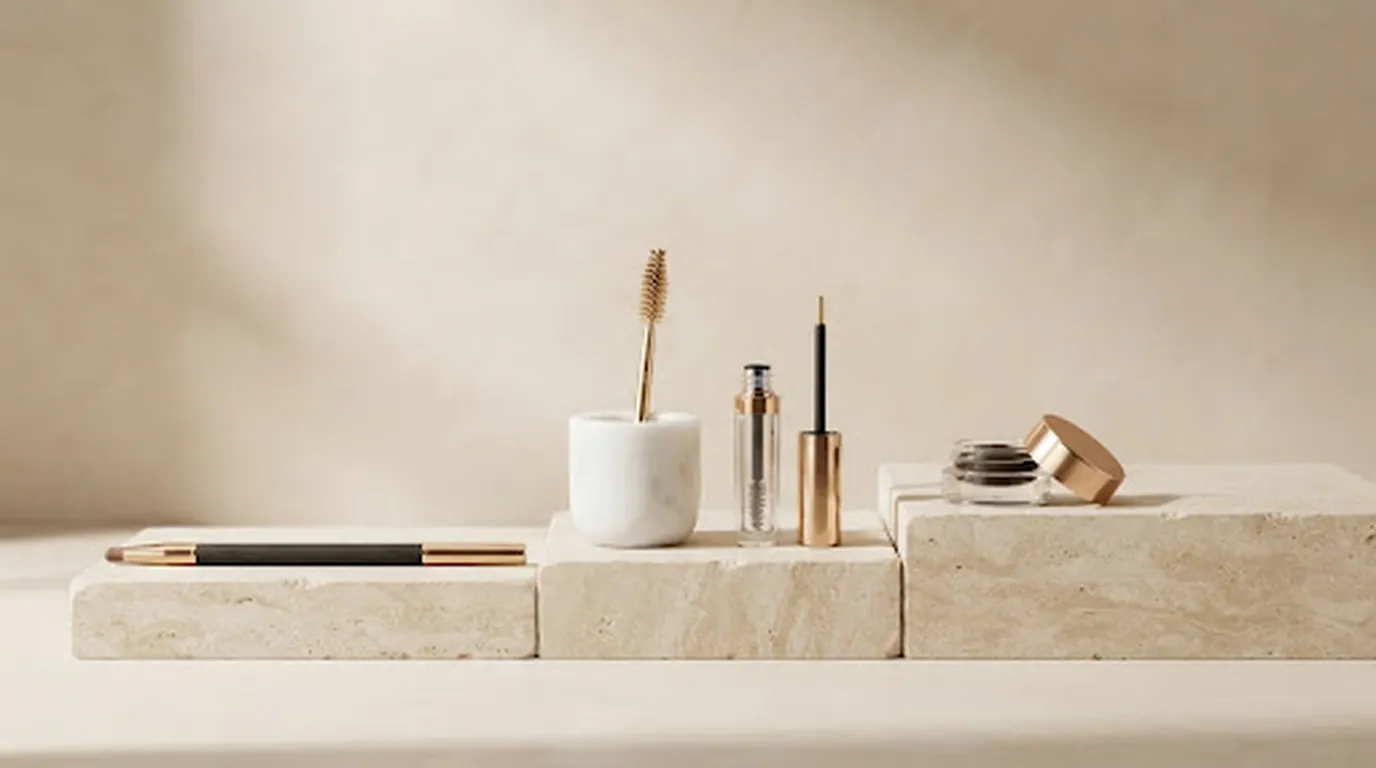
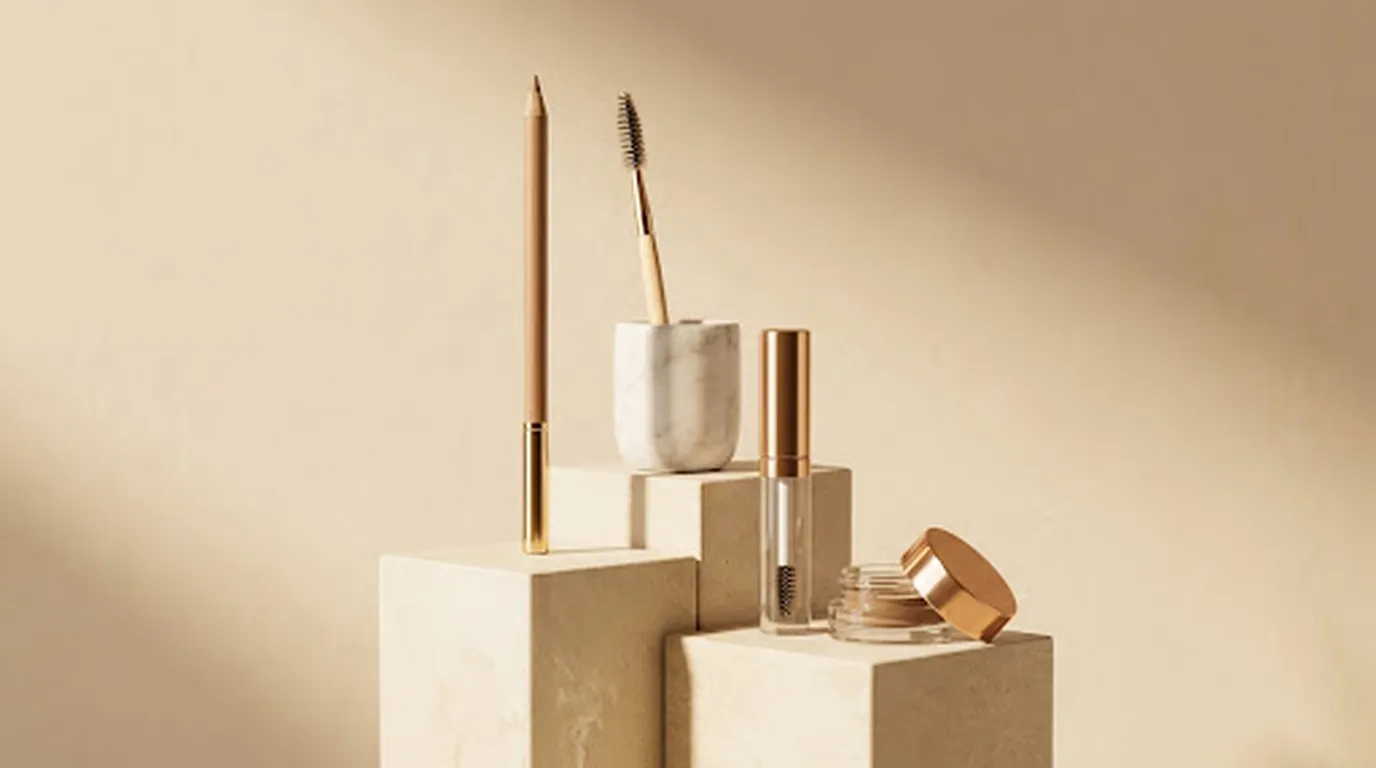
refactor(beauty): finish the restage — all 45 tiles on varied set-ups
Completes the electrical department and the last hair tile, so every one of the
45 groups is now shot on a set-up assigned to keep neighbours distinct.

Two tiles were caught by the crop check and reshot. brow-makeup lost its pencil
off the left edge and half the pomade pot off the right; oral-care lost most of
the floss case. Both are the same failure as the hair dryer earlier — objects
drifting to the frame edges, invisible at full 16:9 and obvious once the grid
takes 13% off each side. Reshot with an explicit instruction that every object
be complete with a clear margin on both sides.

All 45 were then verified through the 4:3 crop as a single sheet. Nothing is
clipped and no department has two neighbours sharing a set-up.

  assets/category-source/TILE-PROMPTS.md
    Documents the split the restage was built on: what stays fixed because it
    makes the set a family (marble, ivory cloth, champagne light from the left,
    the palette) versus what varies because it makes tiles tellable apart
    (surface, height rhythm, camera). Records all eight set-ups verbatim and
    which group uses which, so a future single-tile regeneration lands back in
    the same set instead of quietly recreating the sameness problem.

Claude-Session: https://claude.ai/code/session_01NXYraC7kgt5k312aPZCPpN

diff --git a/assets/category-source/TILE-PROMPTS.md b/assets/category-source/TILE-PROMPTS.md
@@ -17,11 +17,21 @@ node scripts/build_category_tiles.mjs --manifest-only
 ## Why the prompts are written down
 
 The 45 tiles sit next to each other in a grid, so they only work if they read
-as **one campaign**: same marble ledge, same silk backdrop, same champagne
-light from the left, same palette. That consistency comes from reusing one
-fixed shell and changing only the SUBJECT line. Regenerating a single tile
-months from now has to produce something that still sits in the same set —
-hence the shell below is verbatim, not a summary.
+as **one campaign**. Regenerating a single tile months from now has to produce
+something that still belongs in the set, hence the shell below is verbatim,
+not a summary.
+
+But consistency is not sameness, and the first pass got that wrong. Every tile
+was built from one fixed shell — a straight-on row of objects on a marble
+ledge with silk behind — and side by side in the grid they read as a single
+photograph with the products swapped out. At tile size the products alone do
+not carry enough difference.
+
+The fix splits the brief in two. **Fixed, because it is what makes the set a
+family:** cream marble, ivory cloth, warm champagne light raking in from the
+left, the ivory/gold palette, and the content rules below. **Varied, because it
+is what makes tiles distinguishable:** the surface, the height rhythm of the
+group, and the camera position. Eight set-ups cover that second half.
 
 ## Hard content rules (from the brand law)
 
@@ -65,7 +75,7 @@ decides it, in order:
 
 ## The shell
 
-Everything below is sent verbatim, with `{SUBJECT}` replaced:
+Everything below is sent verbatim, with `{SUBJECT}` and `{SET}` replaced:
 
 > A photorealistic luxury product still-life photograph. Absolutely NO text, NO
 > words, NO letters, NO numbers, NO logos, NO labels, NO printed or embossed or
@@ -74,24 +84,82 @@ Everything below is sent verbatim, with `{SUBJECT}` replaced:
 > clean surfaces only. Full-bleed photograph, no borders, no frames, no graphic
 > overlays.
 >
-> SUBJECT: {SUBJECT}
+> SUBJECT: {SUBJECT}. The group is arranged in the CENTRE of the frame and fills
+> most of the frame height; nothing is placed near the left or right edges.
 >
-> SETTING AND LIGHT: the items stand in a row on a pale cream marble ledge that
-> runs across the lower third of the frame. Behind them, soft ivory silk fabric
-> is draped in gentle folds, slightly out of focus. Warm champagne studio light
-> rakes in from the left, casting soft shadows to the right across the marble.
-> The palette is strictly ivory, cream, warm beige, champagne gold and polished
-> copper — no cool blues, no colored gels, no strong saturation.
+> {SET}
 >
-> CAMERA: shot straight on at product height with an 85mm lens, shallow depth of
-> field so the silk background is softly blurred while the products stay crisp.
-> Editorial luxury beauty campaign photography, high-end retail merchandising
-> quality, calm and expensive. Landscape 16:9 composition, the row centred with
-> generous empty space above.
+> LIGHT AND PALETTE: warm champagne studio light rakes in from the left, casting
+> soft shadows to the right. The palette is strictly ivory, cream, warm beige,
+> champagne gold and polished copper — no cool blues, no colored gels, no strong
+> saturation.
+>
+> STYLE: editorial luxury beauty campaign photography, high-end retail
+> merchandising quality, calm and expensive. Landscape 16:9 composition.
+
+### The eight set-ups — `{SET}`
+
+**ledge** — the objects stand in a straight row on a pale cream marble ledge
+running across the lower third of the frame, ivory silk draped in soft folds
+behind them, slightly out of focus. CAMERA: straight on at product height,
+85mm, shallow depth of field.
+
+**plinths** — the objects are staggered across three cream limestone plinths of
+clearly different heights, so the group makes a stepped silhouette rather than
+a flat line. A plain warm plaster wall behind, no fabric. CAMERA: straight on
+at mid-product height, 85mm, shallow depth of field.
+
+**cluster** — the objects are grouped into a tight overlapping triangle on a
+cream marble surface — some in front, some behind — rather than lined up.
+Softly gathered ivory linen behind. CAMERA: raised slightly above the objects
+and turned about 30 degrees to one side, a three-quarter view, 50mm.
+
+**tray** — the objects rest together on a shallow antique-brass tray on a cream
+marble counter, with a folded ivory linen cloth beside it. CAMERA: looking down
+at roughly 45 degrees onto the tray, 50mm.
+
+**silk** — no hard ledge; the objects lie nestled in the deep folds of a heavy
+ivory silk drape that fills the frame, some resting on their sides, the fabric
+rising behind them. CAMERA: low, almost level with the fabric, 85mm, very
+shallow depth of field.
+
+**niche** — the objects stand inside a shallow arched niche cut into a warm
+cream plaster wall, the curve of the arch framing them and the recess falling
+into soft shadow at its edges. CAMERA: straight on, centred on the arch, 85mm.
+
+**macro** — only the two or three most characteristic objects, very large in
+frame and slightly overlapping, cropped close so they run past the top of the
+picture. Cream marble beneath, warm blurred ivory behind. CAMERA: close, 100mm
+macro, very shallow depth of field with the nearest edge crisp.
+
+**fluted** — the objects stand on a fluted cream stone column top, with a warm
+champagne glow behind them throwing a soft halo and a gentle rim light down
+their edges. CAMERA: straight on, slightly below product height so the objects
+rise against the glow, 85mm.
+
+### Which set-up each group uses
+
+Assigned so **no two tiles next to each other inside a department share a
+set-up** — the grid only ever shows one department at a time, so that is where
+sameness actually shows. Change one and check its neighbours.
+
+| Department | Set-ups, in the department's sort order |
+| --- | --- |
+| perfume | cologne `ledge` · men `plinths` · women `niche` · unisex `macro` · kids `silk` · air-freshener `cluster` · gift-set `tray` · body-mist `fluted` · spray `plinths` · body-splash `silk` · fragrances `cluster` |
+| personal-care | face-care `ledge` · body-care `cluster` · oral-care `plinths` · shaving `tray` · hygiene-sets `silk` · mens-care `niche` · baby-care `cluster` · skin-hair-supplement `macro` · intimate `fluted` |
+| makeup | face `tray` · eye `macro` · brow `plinths` · lip `cluster` · nail `silk` · accessories `ledge` · sets `niche` |
+| hair | care `plinths` · styling `fluted` · color `tray` |
+| electrical | shaving `plinths` · hair-styling `niche` · skincare `macro` · nail `tray` · oral `fluted` · health `cluster` |
+| fashion | womens `tray` · mens `cluster` |
+| supplements | vitamins `plinths` · fitness `tray` · sports `ledge` · womens `niche` · kids `fluted` · mens `macro` · skin-hair `tray` |
+
+`perfume-cologne`, `face-care` and `makeup-accessories` keep `ledge` as the
+family's anchors and are the three tiles never regenerated.
 
 ## SUBJECT per group
 
-Status: ✅ = tile committed · ⬜ = still to generate.
+All 45 tiles are committed. The subject line is what changes per group; the
+set-up comes from the table above.
 
 ### perfume
 
@@ -102,62 +170,62 @@ Status: ✅ = tile committed · ⬜ = still to generate.
 - ✅ `perfume-kids` — four small unbranded children's fragrance bottles in a row: a small squat rounded bottle with a domed cream cap, a tiny teardrop bottle in pale peach glass, a small cylindrical spray with a soft gold collar, and a little rounded flask with a smooth ivory stopper. Delicate and playful in scale but elegant and grown-up in finish — no cartoons, no characters, no decoration
 - ✅ `air-freshener` — four unbranded home fragrance vessels in a row: a ribbed clear glass reed diffuser with a bundle of natural rattan reeds fanning out, a tall cylindrical room spray with a brushed gold collar, a squat frosted diffuser bottle with a wooden neck, and a smooth ivory ceramic vessel
 - ✅ `perfume-gift-set` — an unbranded fragrance gift presentation grouped tightly together in the CENTRE of the frame, filling most of the frame height: a rigid ivory gift box standing upright with its lid resting ajar against it and pale silk lining visible inside, a large faceted crystal flacon with a polished gold cap standing immediately beside the box, a smaller matching travel spray in front, and a champagne satin ribbon curling across the marble between them. The objects are large in frame and touch each other; nothing is placed near the left or right edges
-- ⬜ `body-mist` — four tall slim unbranded body-mist bottles in a row: larger volume spray bottles in frosted pale-cream, pale peach and clear glass with fine-mist caps in matte ivory and soft gold, one with a slender pump collar
-- ⬜ `perfume-spray` — four unbranded perfume atomisers in a row: a small purse atomiser in polished gold, a refillable travel spray in brushed champagne metal, a tall clear glass pump spray with a gold collar, and a vintage-style bulb atomiser with a silk tassel and a soft ivory bulb
-- ⬜ `body-splash` — four large unbranded body-splash bottles in a row: wide cylindrical clear glass bottles with broad screw caps in ivory and brushed gold, one with pale golden liquid inside, one frosted, generous casual proportions rather than fine-fragrance proportions
-- ⬜ `fragrances` — an editorial mixed unbranded fragrance grouping: a faceted crystal flacon with a gold cap, a ribbed glass reed diffuser with rattan reeds, a slim rollerball vial with a gold cap lying on its side, and a small round solid-perfume compact in polished champagne metal, open to show the cream inside
+- ✅ `body-mist` — four tall slim unbranded body-mist bottles in a row: larger volume spray bottles in frosted pale-cream, pale peach and clear glass with fine-mist caps in matte ivory and soft gold, one with a slender pump collar
+- ✅ `perfume-spray` — four unbranded perfume atomisers in a row: a small purse atomiser in polished gold, a refillable travel spray in brushed champagne metal, a tall clear glass pump spray with a gold collar, and a vintage-style bulb atomiser with a silk tassel and a soft ivory bulb
+- ✅ `body-splash` — four large unbranded body-splash bottles in a row: wide cylindrical clear glass bottles with broad screw caps in ivory and brushed gold, one with pale golden liquid inside, one frosted, generous casual proportions rather than fine-fragrance proportions
+- ✅ `fragrances` — an editorial mixed unbranded fragrance grouping: a faceted crystal flacon with a gold cap, a ribbed glass reed diffuser with rattan reeds, a slim rollerball vial with a gold cap lying on its side, and a small round solid-perfume compact in polished champagne metal, open to show the cream inside
 
 ### personal-care
 
 - ✅ `face-care` — four unbranded facial skincare vessels in a row: a faceted clear glass serum bottle with a gold dropper cap, a wide low cream jar with a stepped polished copper lid, a tall frosted pump bottle with a ribbed gold collar, and a rounded ivory lotion bottle with an angled cap and a thin gold seam
 - ✅ `body-care` — five unbranded body-care items in a row: a tall ribbed glass pump bottle with pale golden liquid and a gold pump, a wide cream jar with a polished copper lid, a large blank body-lotion tube standing on its cap, a frosted cylindrical bottle with a copper cap, and a rolled cream cotton towel lying on its side
-- ⬜ `oral-care` — four unbranded oral-care items in a row: a smooth blank white toothpaste tube standing on its cap, a slim ivory toothbrush upright in a tall marble holder, a clear glass mouthwash bottle with pale amber liquid and a champagne-gold cap, and a small round polished gold floss case
-- ⬜ `shaving` — four unbranded wet-shaving items in a row: a heavy ivory ceramic bowl holding a whipped shaving cream puck, a badger-hair shaving brush with a cream resin handle, a chrome and gold double-edge safety razor standing upright on a small stand, and a squat clear glass aftershave bottle with a brushed gold cap
-- ⬜ `hygiene-sets` — an unbranded personal-hygiene gift set: a stacked pair of rigid ivory boxes with the top lid ajar, a cream soap bar resting on a small marble dish, a tall pump bottle in frosted glass with a gold pump, a small blank tube, and a rolled cream cotton towel
-- ⬜ `mens-care` — four unbranded men's grooming products in a row: a matte charcoal cylindrical pump bottle with a bronze collar, a smooth deodorant stick in brushed bronze, a blank matte tube standing on its cap, and a squat dark glass jar with a heavy bronze lid. Masculine cylindrical forms, warm bronze and deep taupe against the cream marble
-- ⬜ `baby-care` — four unbranded baby-care products in a row: a soft rounded pump bottle in pale cream, a small wide tub with a smooth ivory lid, a blank soft tube standing on its cap, and a rounded powder bottle with a domed cap. Very pale cream and soft blush, rounded gentle shapes, no characters and no decoration
-- ⬜ `skin-hair-supplement` — four unbranded skin-and-hair supplement vessels in a row: a tall amber glass bottle with a polished gold cap, a smooth ivory capsule jar with a gold lid, a small clear dropper bottle with a champagne pipette top, and a shallow marble dish holding a few smooth golden softgel capsules
-- ⬜ `intimate` — four unbranded discreet personal-care products in a row: a slim frosted pump bottle with a soft ivory pump, a small blank tube standing on its cap, a low round jar with a smooth champagne lid, and a slender cylindrical bottle in pale blush glass. Quiet, clinical-luxury, entirely neutral and unsuggestive
+- ✅ `oral-care` — four unbranded oral-care items in a row: a smooth blank white toothpaste tube standing on its cap, a slim ivory toothbrush upright in a tall marble holder, a clear glass mouthwash bottle with pale amber liquid and a champagne-gold cap, and a small round polished gold floss case
+- ✅ `shaving` — four unbranded wet-shaving items in a row: a heavy ivory ceramic bowl holding a whipped shaving cream puck, a badger-hair shaving brush with a cream resin handle, a chrome and gold double-edge safety razor standing upright on a small stand, and a squat clear glass aftershave bottle with a brushed gold cap
+- ✅ `hygiene-sets` — an unbranded personal-hygiene gift set: a stacked pair of rigid ivory boxes with the top lid ajar, a cream soap bar resting on a small marble dish, a tall pump bottle in frosted glass with a gold pump, a small blank tube, and a rolled cream cotton towel
+- ✅ `mens-care` — four unbranded men's grooming products in a row: a matte charcoal cylindrical pump bottle with a bronze collar, a smooth deodorant stick in brushed bronze, a blank matte tube standing on its cap, and a squat dark glass jar with a heavy bronze lid. Masculine cylindrical forms, warm bronze and deep taupe against the cream marble
+- ✅ `baby-care` — four unbranded baby-care products in a row: a soft rounded pump bottle in pale cream, a small wide tub with a smooth ivory lid, a blank soft tube standing on its cap, and a rounded powder bottle with a domed cap. Very pale cream and soft blush, rounded gentle shapes, no characters and no decoration
+- ✅ `skin-hair-supplement` — four unbranded skin-and-hair supplement vessels in a row: a tall amber glass bottle with a polished gold cap, a smooth ivory capsule jar with a gold lid, a small clear dropper bottle with a champagne pipette top, and a shallow marble dish holding a few smooth golden softgel capsules
+- ✅ `intimate` — four unbranded discreet personal-care products in a row: a slim frosted pump bottle with a soft ivory pump, a small blank tube standing on its cap, a low round jar with a smooth champagne lid, and a slender cylindrical bottle in pale blush glass. Quiet, clinical-luxury, entirely neutral and unsuggestive
 
 ### makeup
 
-- ⬜ `face-makeup` — five unbranded face-makeup items in a row: a clear glass foundation bottle with a gold pump and warm beige liquid, a round polished gold compact powder case lying open to show the pressed powder, a cushion compact with a mirrored lid, a slim concealer tube with a gold cap, and a single pressed blush pan in warm rose
-- ⬜ `eye-makeup` — five unbranded eye-makeup items in a row: a tall slim mascara tube in matte ivory with a gold collar, an open rectangular eyeshadow palette showing four neutral champagne and taupe pressed shades, a slim eyeliner pen, a small eyeshadow brush lying flat, and a tiny pot of loose shimmer powder
-- ⬜ `brow-makeup` — four unbranded brow products in a row: a slim wooden brow pencil with a gold ferrule, a spoolie brush standing upright in a small marble cup, a small clear brow-gel tube with a gold cap, and a tiny round pot of brow pomade with the lid resting beside it
-- ⬜ `lip-makeup` — five unbranded lip products in a row: a bullet lipstick uncapped in a polished gold case showing a warm rose bullet, a lip gloss with a clear tube and a slim gold wand cap, a small round lip balm pot with the lid off, a liquid lipstick tube in matte ivory, and a lip liner pencil lying flat
-- ⬜ `nail-makeup` — five unbranded nail products in a row: three square glass nail polish bottles with slim black-gold caps holding a soft nude, a warm rose and a deep berry lacquer, a slim gold-handled nail file lying flat, and a small clear bottle of remover with a champagne cap
-- ⬜ `makeup-accessories` — four unbranded makeup accessories: a fan of five makeup brushes with cream resin handles and champagne-gold ferrules standing in a tall marble cup, a rounded beauty sponge resting on a small dish, a closed round pocket mirror in polished gold, and a soft cream silk pouch lying flat
-- ⬜ `makeup-sets` — an unbranded makeup gift set: an open rigid ivory presentation case lined in cream silk holding an eyeshadow palette of neutral champagne shades and three brushes, with a gold bullet lipstick and a round gold compact standing on the marble beside it
+- ✅ `face-makeup` — five unbranded face-makeup items in a row: a clear glass foundation bottle with a gold pump and warm beige liquid, a round polished gold compact powder case lying open to show the pressed powder, a cushion compact with a mirrored lid, a slim concealer tube with a gold cap, and a single pressed blush pan in warm rose
+- ✅ `eye-makeup` — five unbranded eye-makeup items in a row: a tall slim mascara tube in matte ivory with a gold collar, an open rectangular eyeshadow palette showing four neutral champagne and taupe pressed shades, a slim eyeliner pen, a small eyeshadow brush lying flat, and a tiny pot of loose shimmer powder
+- ✅ `brow-makeup` — four unbranded brow products in a row: a slim wooden brow pencil with a gold ferrule, a spoolie brush standing upright in a small marble cup, a small clear brow-gel tube with a gold cap, and a tiny round pot of brow pomade with the lid resting beside it
+- ✅ `lip-makeup` — five unbranded lip products in a row: a bullet lipstick uncapped in a polished gold case showing a warm rose bullet, a lip gloss with a clear tube and a slim gold wand cap, a small round lip balm pot with the lid off, a liquid lipstick tube in matte ivory, and a lip liner pencil lying flat
+- ✅ `nail-makeup` — five unbranded nail products in a row: three square glass nail polish bottles with slim black-gold caps holding a soft nude, a warm rose and a deep berry lacquer, a slim gold-handled nail file lying flat, and a small clear bottle of remover with a champagne cap
+- ✅ `makeup-accessories` — four unbranded makeup accessories: a fan of five makeup brushes with cream resin handles and champagne-gold ferrules standing in a tall marble cup, a rounded beauty sponge resting on a small dish, a closed round pocket mirror in polished gold, and a soft cream silk pouch lying flat
+- ✅ `makeup-sets` — an unbranded makeup gift set: an open rigid ivory presentation case lined in cream silk holding an eyeshadow palette of neutral champagne shades and three brushes, with a gold bullet lipstick and a round gold compact standing on the marble beside it
 
 ### hair
 
-- ⬜ `hair-care` — four unbranded hair-care products in a row: a tall cylindrical shampoo bottle in frosted glass with a gold pump, a matching slightly wider conditioner bottle with a smooth ivory cap, a wide low hair-mask jar with a heavy champagne-gold lid, and a slim clear serum dropper bottle with a gold pipette
-- ⬜ `hair-styling` — four unbranded hair-styling products in a row: a tall slim aerosol hairspray can in brushed champagne metal with a smooth ivory nozzle cap, a round styling-cream jar with a polished gold lid, a blank matte tube of styling gel standing on its cap, and a texturising mist bottle in clear glass with a fine-mist gold collar
-- ⬜ `hair-color` — four unbranded hair-colour items in a row: a smooth blank aluminium colour tube standing on its cap, a tall clear developer bottle with pale liquid and an ivory cap, a shallow ivory ceramic mixing bowl with a champagne-gold tint brush resting across it, and a folded pair of soft cream gloves. Salon-professional but elegant
+- ✅ `hair-care` — four unbranded hair-care products in a row: a tall cylindrical shampoo bottle in frosted glass with a gold pump, a matching slightly wider conditioner bottle with a smooth ivory cap, a wide low hair-mask jar with a heavy champagne-gold lid, and a slim clear serum dropper bottle with a gold pipette
+- ✅ `hair-styling` — four unbranded hair-styling products in a row: a tall slim aerosol hairspray can in brushed champagne metal with a smooth ivory nozzle cap, a round styling-cream jar with a polished gold lid, a blank matte tube of styling gel standing on its cap, and a texturising mist bottle in clear glass with a fine-mist gold collar
+- ✅ `hair-color` — four unbranded hair-colour items in a row: a smooth blank aluminium colour tube standing on its cap, a tall clear developer bottle with pale liquid and an ivory cap, a shallow ivory ceramic mixing bowl with a champagne-gold tint brush resting across it, and a folded pair of soft cream gloves. Salon-professional but elegant
 
 ### electrical
 
-- ⬜ `elec-shaving` — four unbranded grooming appliances in a row: a rotary electric shaver in brushed champagne metal standing on a slim charging stand, a foil shaver in matte ivory and rose-gold, a cylindrical beard trimmer with a fine metal guard, and a small set of comb attachments lying flat. Brushed champagne, rose gold and matte ivory finishes only
-- ⬜ `elec-hair-styling` — four unbranded hair appliances in a row: a professional hair dryer in matte ivory with a rose-gold nozzle standing upright, a flat straightening iron in brushed champagne metal, a slim curling wand with a cool ivory tip, and a round ceramic styling brush lying flat
-- ⬜ `elec-skincare` — four unbranded skincare devices in a row: a rounded silicone facial cleansing brush in pale blush, a slim LED light-therapy wand in brushed champagne metal on a small stand, a microcurrent facial device with two smooth gold spheres, and a compact charging dock in matte ivory
-- ⬜ `elec-nail` — four unbranded nail-care devices in a row: a slim electric nail file handpiece in brushed champagne metal resting in an ivory cradle, a small round base unit with a smooth dial, a neat row of three fine polishing bits standing in a tiny holder, and a compact UV curing lamp in matte ivory
-- ⬜ `elec-oral` — four unbranded oral-care appliances in a row: a sonic electric toothbrush in matte ivory with a rose-gold band standing on a small round charging base, a second brush handle in brushed champagne, a compact water flosser unit with a smooth reservoir, and two spare brush heads standing in a tiny marble cup
-- ⬜ `elec-health` — four unbranded personal wellness devices in a row: a slim digital thermometer in matte ivory lying flat, a compact upper-arm blood-pressure monitor with a neatly rolled cream cuff, a small handheld percussive massager in brushed champagne metal, and a round glass bathroom scale with a champagne-gold rim standing on edge
+- ✅ `elec-shaving` — four unbranded grooming appliances in a row: a rotary electric shaver in brushed champagne metal standing on a slim charging stand, a foil shaver in matte ivory and rose-gold, a cylindrical beard trimmer with a fine metal guard, and a small set of comb attachments lying flat. Brushed champagne, rose gold and matte ivory finishes only
+- ✅ `elec-hair-styling` — four unbranded hair appliances in a row: a professional hair dryer in matte ivory with a rose-gold nozzle standing upright, a flat straightening iron in brushed champagne metal, a slim curling wand with a cool ivory tip, and a round ceramic styling brush lying flat
+- ✅ `elec-skincare` — four unbranded skincare devices in a row: a rounded silicone facial cleansing brush in pale blush, a slim LED light-therapy wand in brushed champagne metal on a small stand, a microcurrent facial device with two smooth gold spheres, and a compact charging dock in matte ivory
+- ✅ `elec-nail` — four unbranded nail-care devices in a row: a slim electric nail file handpiece in brushed champagne metal resting in an ivory cradle, a small round base unit with a smooth dial, a neat row of three fine polishing bits standing in a tiny holder, and a compact UV curing lamp in matte ivory
+- ✅ `elec-oral` — four unbranded oral-care appliances in a row: a sonic electric toothbrush in matte ivory with a rose-gold band standing on a small round charging base, a second brush handle in brushed champagne, a compact water flosser unit with a smooth reservoir, and two spare brush heads standing in a tiny marble cup
+- ✅ `elec-health` — four unbranded personal wellness devices in a row: a slim digital thermometer in matte ivory lying flat, a compact upper-arm blood-pressure monitor with a neatly rolled cream cuff, a small handheld percussive massager in brushed champagne metal, and a round glass bathroom scale with a champagne-gold rim standing on edge
 
 ### fashion
 
-- ⬜ `womens-accessories` — four unbranded women's accessories arranged on the marble: a cream silk scarf folded into a soft fan, a pair of sunglasses with warm tortoiseshell frames and gold temples resting folded, a slim wristwatch with a champagne-gold case and a cream leather strap, and a small structured ivory clutch standing on edge. Every piece completely blank — no monograms, no hardware logos, no engraved marks
-- ⬜ `mens-accessories` — four unbranded men's accessories arranged on the marble: a tan leather belt coiled into a neat spiral with a plain brushed bronze buckle, a pair of sunglasses with dark tortoiseshell frames resting folded, a wristwatch with a bronze case and a cognac leather strap, and a pair of smooth polished bronze cufflinks on a small dish. Every piece completely blank — no monograms, no engraved marks
+- ✅ `womens-accessories` — four unbranded women's accessories arranged on the marble: a cream silk scarf folded into a soft fan, a pair of sunglasses with warm tortoiseshell frames and gold temples resting folded, a slim wristwatch with a champagne-gold case and a cream leather strap, and a small structured ivory clutch standing on edge. Every piece completely blank — no monograms, no hardware logos, no engraved marks
+- ✅ `mens-accessories` — four unbranded men's accessories arranged on the marble: a tan leather belt coiled into a neat spiral with a plain brushed bronze buckle, a pair of sunglasses with dark tortoiseshell frames resting folded, a wristwatch with a bronze case and a cognac leather strap, and a pair of smooth polished bronze cufflinks on a small dish. Every piece completely blank — no monograms, no engraved marks
 
 ### supplements
 
-- ⬜ `vitamins` — four unbranded vitamin containers in a row: a tall amber glass bottle with a polished gold cap, a smooth ivory plastic tub with a champagne lid, a shorter clear glass jar showing golden softgel capsules inside, and a shallow marble dish holding a few loose capsules
-- ⬜ `fitness-supplement` — four unbranded fitness nutrition containers: a large cylindrical protein tub in matte ivory with a smooth champagne-gold lid, a stainless shaker bottle in brushed champagne with an ivory collar, a smaller wide jar with a gold lid, and a polished metal scoop resting on the marble
-- ⬜ `sports-supplement` — four unbranded sports nutrition containers in a row: a tall matte bronze tub with a smooth lid, a slimmer ivory tub, a clear glass bottle of pale amber liquid with a gold cap, and a brushed champagne shaker bottle with a scoop resting beside it
-- ⬜ `womens-supplement` — four unbranded women's supplement containers in a row: a rounded pale blush glass bottle with a smooth ivory cap, a low wide tub with a polished rose-gold lid, a slim clear bottle showing small cream capsules, and a small marble dish with a few loose capsules. Softer rounded forms, blush and champagne against the cream marble
-- ⬜ `kids-supplement` — four unbranded children's supplement containers in a row: a small rounded bottle with a domed ivory cap, a squat gummy jar in clear glass with a smooth champagne lid showing soft amber gummies inside, a small tub with a rounded lid, and a tiny measuring spoon resting on the marble. Small friendly proportions but elegant adult finishes, no characters and no decoration
-- ⬜ `mens-supplement` — four unbranded men's supplement containers in a row: a tall matte charcoal tub with a brushed bronze lid, a dark amber glass bottle with a heavy bronze cap, a squat wide jar in smoked glass, and a polished bronze scoop resting on the marble. Deeper bronze and charcoal tones against the cream marble
-- ⬜ `supplement-skin-hair` — four unbranded beauty-supplement containers in a row: a wide low collagen tub in matte ivory with a polished gold lid and a small scoop resting in it, a tall amber glass bottle with a gold cap, a slim clear dropper bottle with a champagne pipette, and a shallow marble dish holding a few golden capsules
+- ✅ `vitamins` — four unbranded vitamin containers in a row: a tall amber glass bottle with a polished gold cap, a smooth ivory plastic tub with a champagne lid, a shorter clear glass jar showing golden softgel capsules inside, and a shallow marble dish holding a few loose capsules
+- ✅ `fitness-supplement` — four unbranded fitness nutrition containers: a large cylindrical protein tub in matte ivory with a smooth champagne-gold lid, a stainless shaker bottle in brushed champagne with an ivory collar, a smaller wide jar with a gold lid, and a polished metal scoop resting on the marble
+- ✅ `sports-supplement` — four unbranded sports nutrition containers in a row: a tall matte bronze tub with a smooth lid, a slimmer ivory tub, a clear glass bottle of pale amber liquid with a gold cap, and a brushed champagne shaker bottle with a scoop resting beside it
+- ✅ `womens-supplement` — four unbranded women's supplement containers in a row: a rounded pale blush glass bottle with a smooth ivory cap, a low wide tub with a polished rose-gold lid, a slim clear bottle showing small cream capsules, and a small marble dish with a few loose capsules. Softer rounded forms, blush and champagne against the cream marble
+- ✅ `kids-supplement` — four unbranded children's supplement containers in a row: a small rounded bottle with a domed ivory cap, a squat gummy jar in clear glass with a smooth champagne lid showing soft amber gummies inside, a small tub with a rounded lid, and a tiny measuring spoon resting on the marble. Small friendly proportions but elegant adult finishes, no characters and no decoration
+- ✅ `mens-supplement` — four unbranded men's supplement containers in a row: a tall matte charcoal tub with a brushed bronze lid, a dark amber glass bottle with a heavy bronze cap, a squat wide jar in smoked glass, and a polished bronze scoop resting on the marble. Deeper bronze and charcoal tones against the cream marble
+- ✅ `supplement-skin-hair` — four unbranded beauty-supplement containers in a row: a wide low collagen tub in matte ivory with a polished gold lid and a small scoop resting in it, a tall amber glass bottle with a gold cap, a slim clear dropper bottle with a champagne pipette, and a shallow marble dish holding a few golden capsules
 
 ## Groups with no tile yet
 
